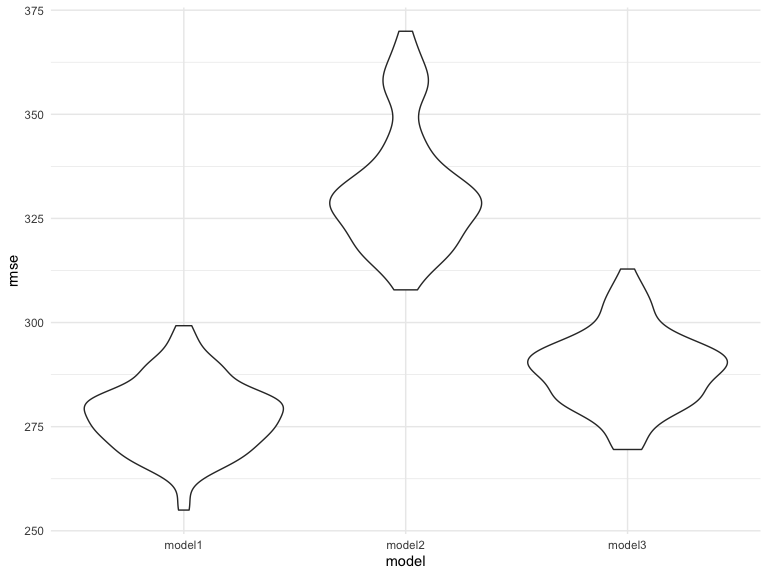
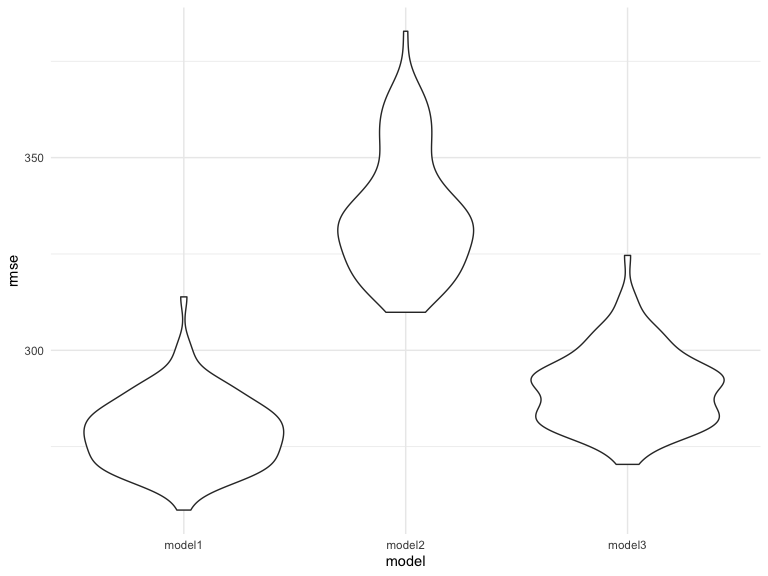
final commit

diff --git a/p8105_hw6_ms6360.md b/p8105_hw6_ms6360.md
@@ -340,7 +340,7 @@ model_1 =
 
 ``` r
 model_2 = lm(bwt ~ blength + gaweeks, data = birthweight_data)
-model_3 = lm(bwt ~ bhead + blength + babysex + bhead * blength + bhead * babysex + blength * babysex + bhead * blength * babysex, data = birthweight_data)
+model_3 = lm(bwt ~ bhead * blength * babysex, data = birthweight_data)
 ```
 
 8.  Cross validation
@@ -358,7 +358,7 @@ rmse =
   mutate(
    model_1 = map(.x = train, ~lm(bwt ~ blength + bhead + wtgain + ppwt + mrace + momage + mheight + gaweeks + frace + fincome + delwt, data = .x)),
    model_2 = map(.x = train, ~lm(bwt ~ blength + gaweeks, data = .x)),
-   model_3 = map(.x = train, ~lm(bwt ~ bhead + blength + babysex + bhead * blength + bhead * babysex + blength * babysex + bhead * blength * babysex, data = .x))
+   model_3 = map(.x = train, ~lm(bwt ~ bhead * blength * babysex, data = .x))
   ) %>% 
   mutate(
     rmse_model1 = map2_dbl(.x = model_1, .y = test, ~rmse(model = .x, data = .y)),
